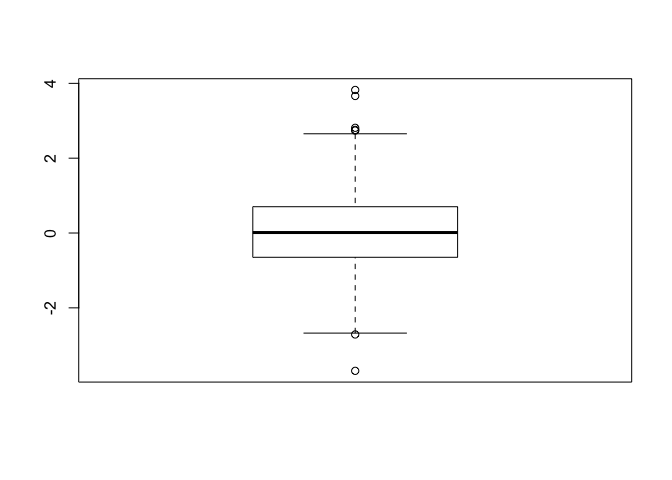
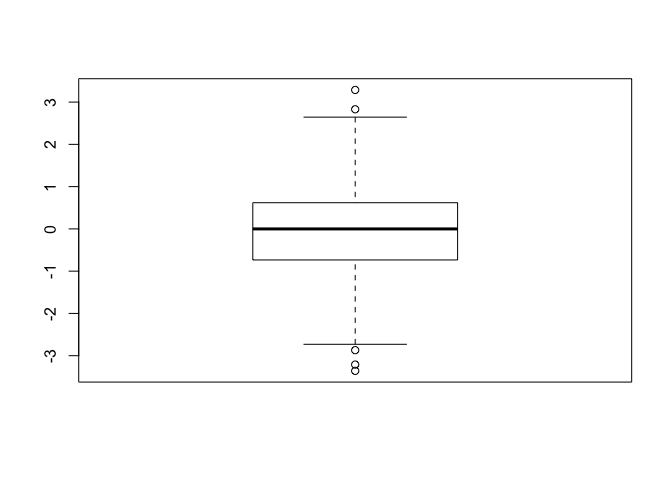
add class5

diff --git a/class5/class05.md b/class5/class05.md
@@ -11,20 +11,20 @@ x <- rnorm(1000)
 mean(x)
 ```
 
-    ## [1] 0.0242769
+    ## [1] -0.0362414
 
 ``` r
 sd(x)
 ```
 
-    ## [1] 1.002441
+    ## [1] 1.007333
 
 ``` r
 summary(x)
 ```
 
-    ##     Min.  1st Qu.   Median     Mean  3rd Qu.     Max. 
-    ## -3.68380 -0.64771  0.01290  0.02428  0.70244  3.82361
+    ##      Min.   1st Qu.    Median      Mean   3rd Qu.      Max. 
+    ## -3.358521 -0.734621 -0.000621 -0.036241  0.618641  3.287141
 
 ``` r
 # 5 number summary (include max,Q1,Q2,Q3,min)
